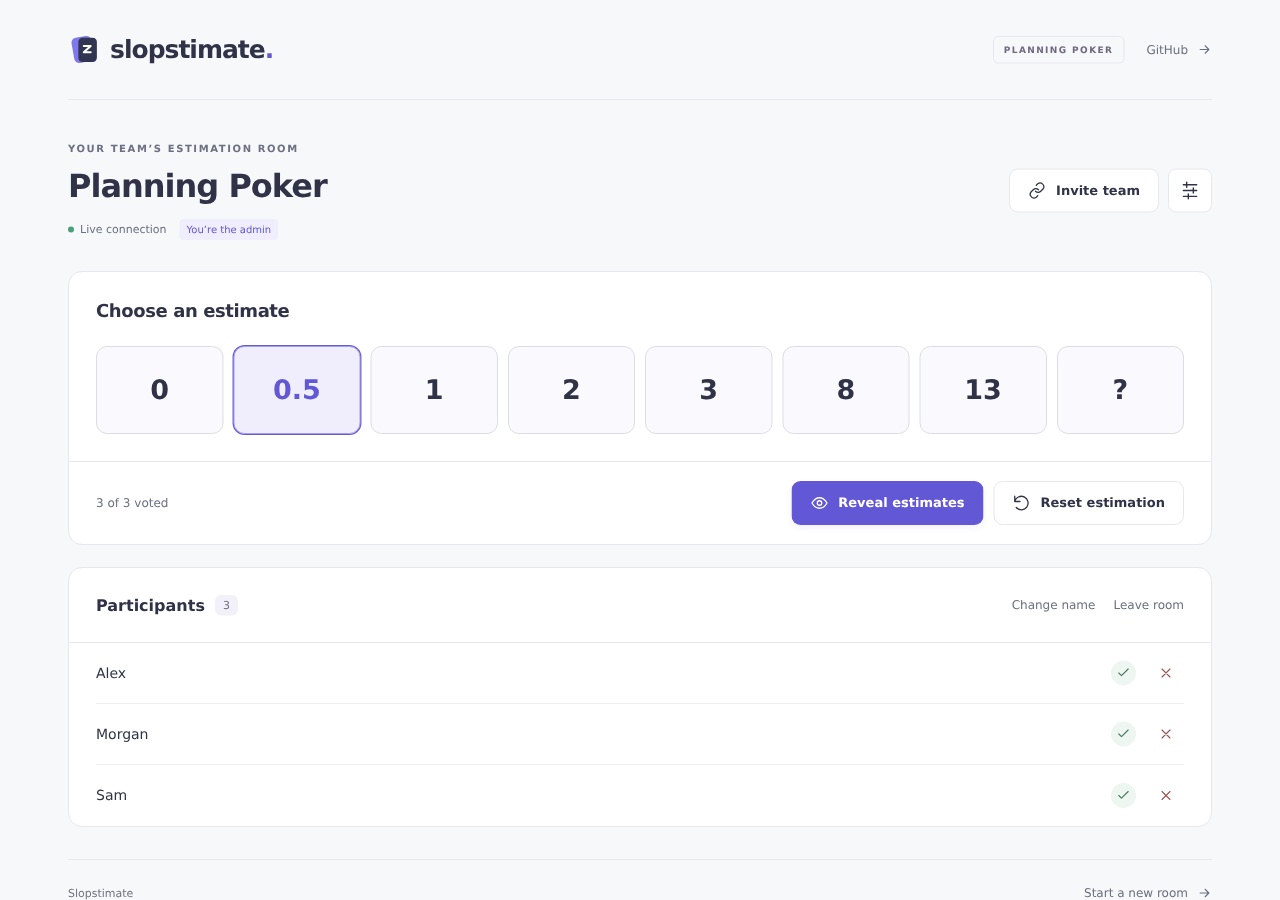
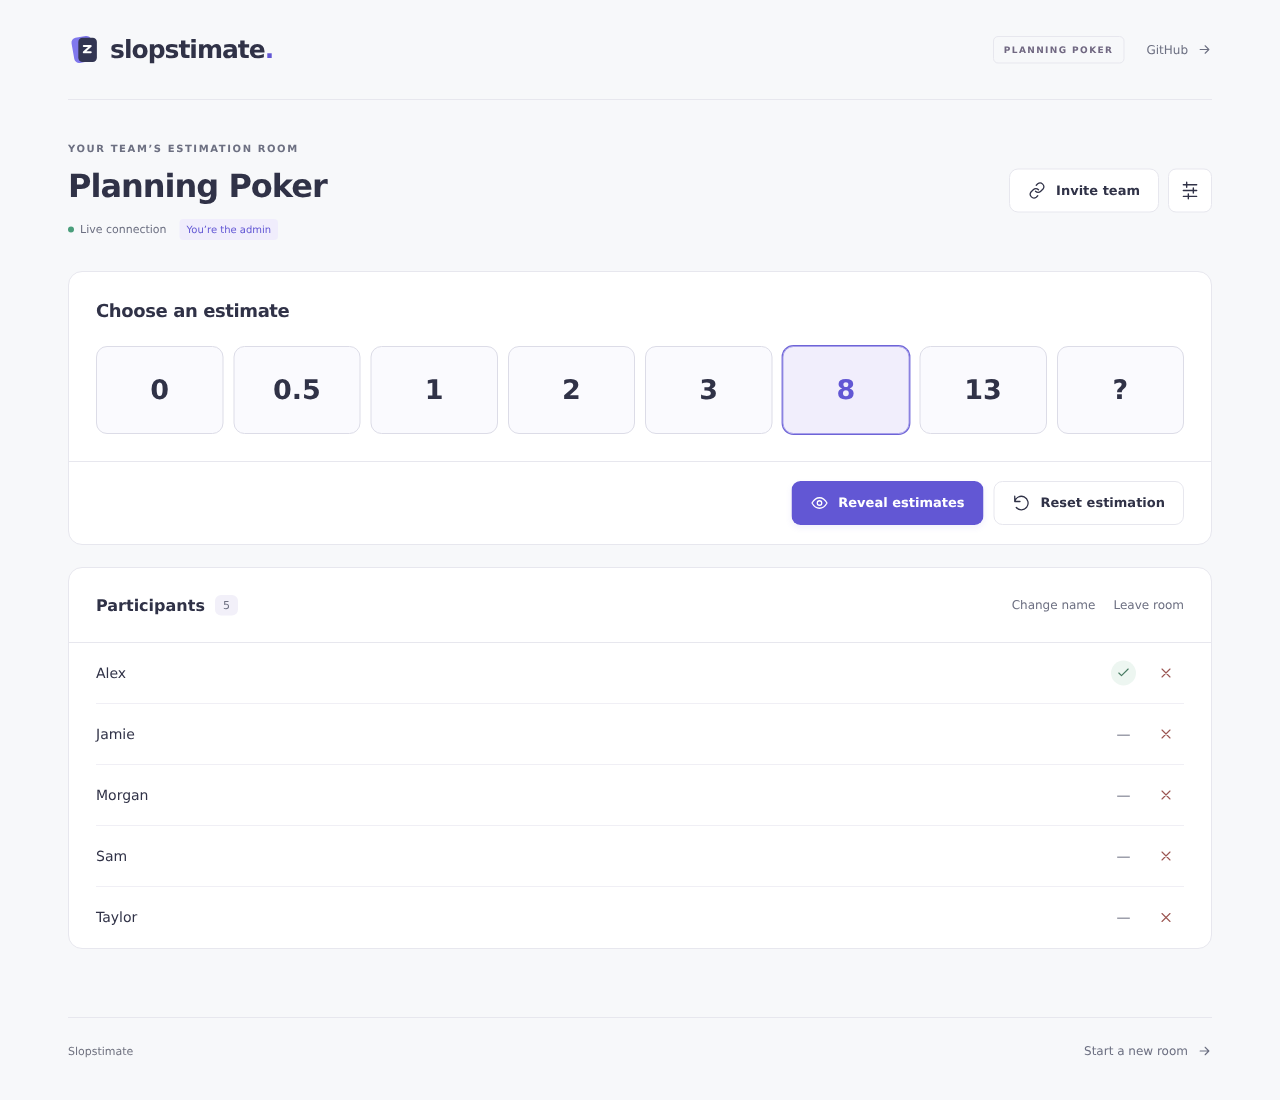
ui: remove redundant voting and revealed status line

diff --git a/src/client/Room.svelte b/src/client/Room.svelte
@@ -25,7 +25,6 @@
   let removingMember = $state<PublicMember | null>(null);
   let copyTimer: ReturnType<typeof setTimeout>;
   const members = $derived(c.room?.members ?? []);
-  const voted = $derived(members.filter((member) => member.voted).length);
   const summary = $derived(
     c.memberId || c.isAdmin ? summarizeEstimates(c.room) : null,
   );
@@ -246,27 +245,22 @@
                 </form>
               {/if}
             </div>
-            <div class="round-footer">
-              <p class="round-progress" aria-live="polite">
-                {voted} of {members.length} voted{c.room.revealed
-                  ? ' · Revealed'
-                  : ''}
-              </p>
-              <div class="round-actions">
-                {#if !c.room.revealed}<button
-                    class="button primary"
-                    disabled={!ready}
-                    onclick={() => c.reveal()}
-                    ><Icon name="eye" size={18} />Reveal estimates</button
-                  >{/if}
-                {#if c.isAdmin}<button
-                    class="button secondary"
-                    disabled={!ready}
-                    onclick={() => c.admin('reset')}
-                    ><Icon name="reset" size={18} />Reset estimation</button
-                  >{/if}
-              </div>
-            </div>
+            {#if !c.room.revealed || c.isAdmin}<div class="round-footer">
+                <div class="round-actions">
+                  {#if !c.room.revealed}<button
+                      class="button primary"
+                      disabled={!ready}
+                      onclick={() => c.reveal()}
+                      ><Icon name="eye" size={18} />Reveal estimates</button
+                    >{/if}
+                  {#if c.isAdmin}<button
+                      class="button secondary"
+                      disabled={!ready}
+                      onclick={() => c.admin('reset')}
+                      ><Icon name="reset" size={18} />Reset estimation</button
+                    >{/if}
+                </div>
+              </div>{/if}
           {/if}
         </section>
         <div class="estimation-results" class:revealed={summary !== null}>

diff --git a/src/client/styles.css b/src/client/styles.css
@@ -598,15 +598,11 @@ p {
 .round-footer {
   display: flex;
   align-items: center;
-  justify-content: space-between;
+  justify-content: flex-end;
   gap: 20px;
   flex-wrap: wrap;
   padding: 19px 27px;
   border-top: 1px solid var(--line);
-}
-.round-progress {
-  color: var(--muted);
-  font-size: 12px;
 }
 .round-actions {
   display: flex;
